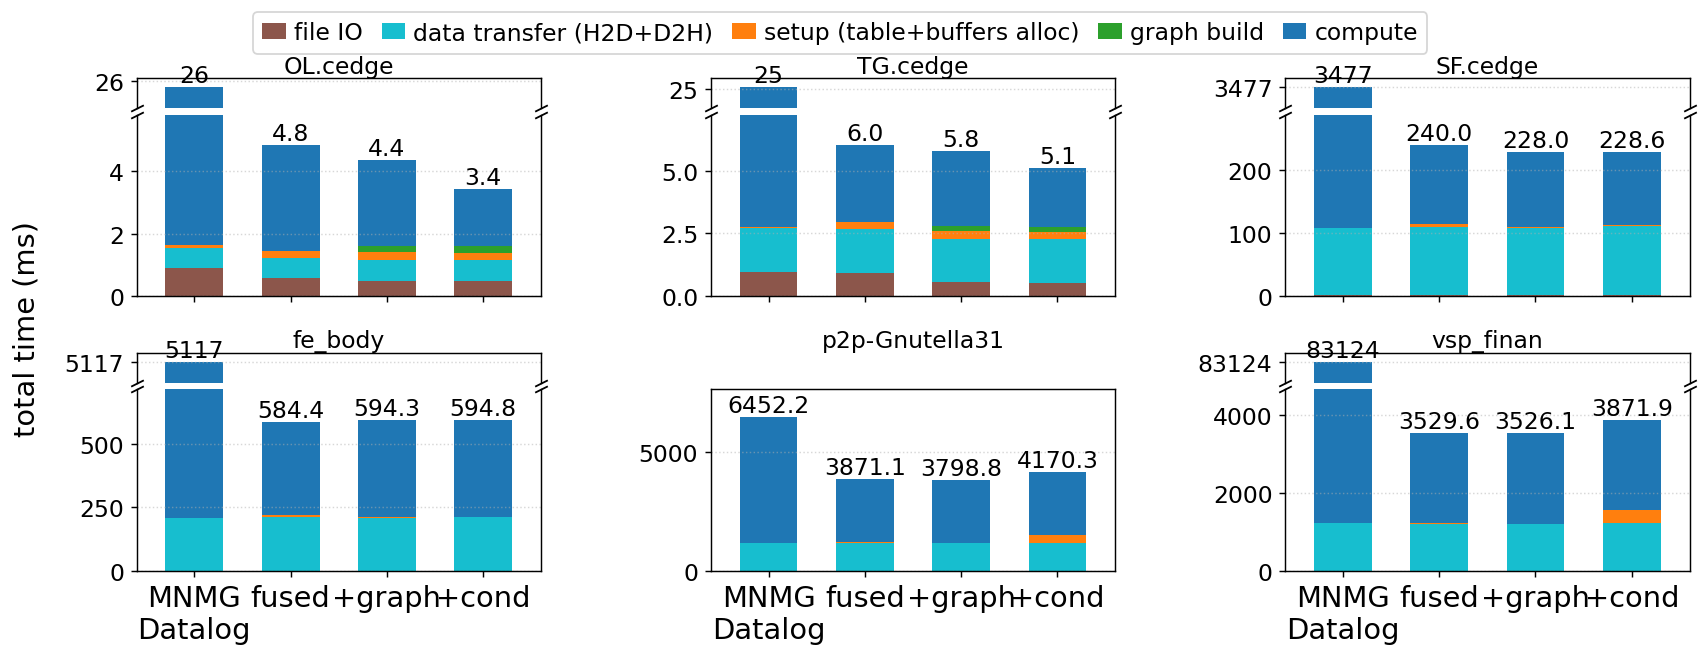
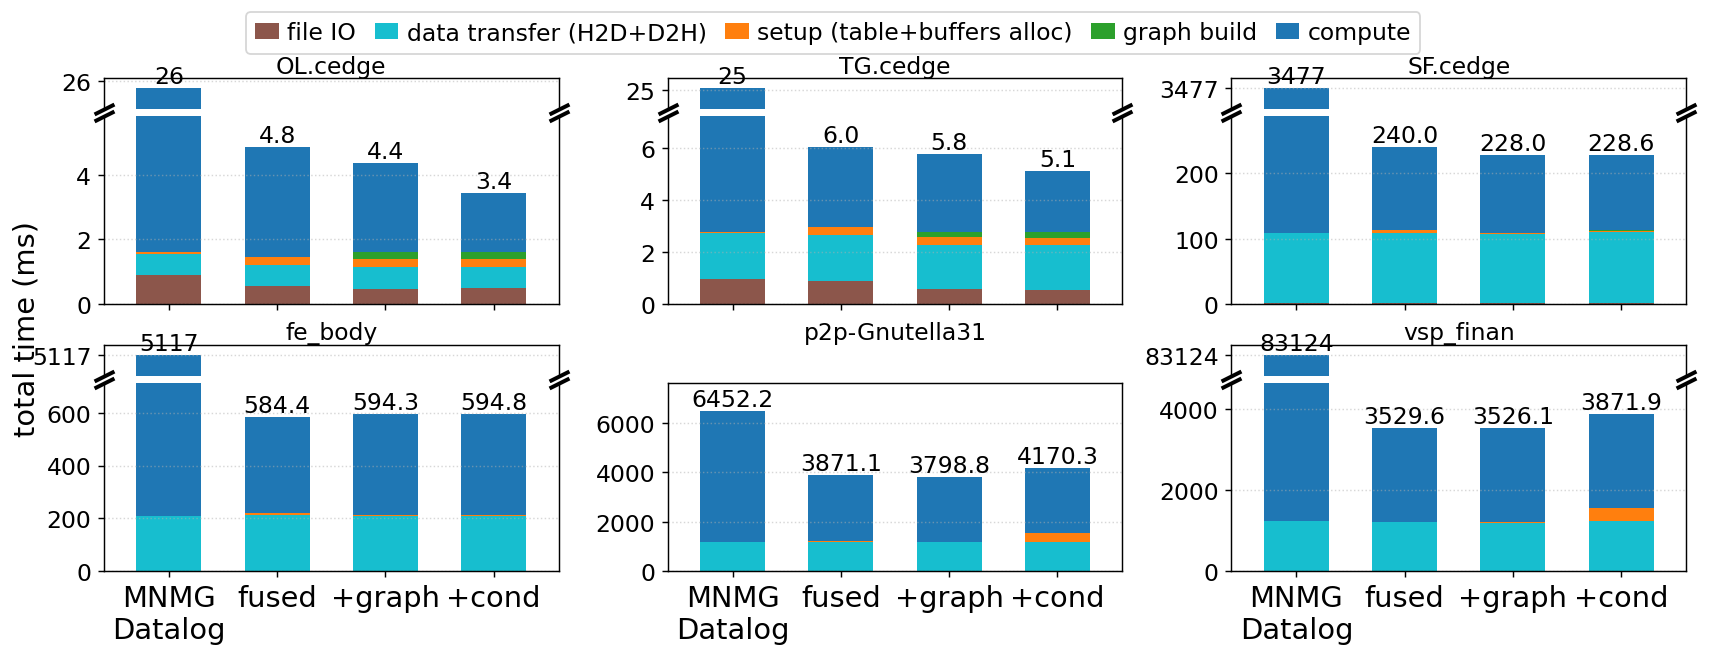
breakdown chart: tighter plot/y-label spacing, bolder axis-break marks

Changed region(s): [[0.031, 0.0304, 0.993, 0.9741], [0.1552, 0.0913, 0.2482, 0.1218], [0.4965, 0.0913, 0.5585, 0.1218]]

diff --git a/tc_benchmark/tests/plot_results.py b/tc_benchmark/tests/plot_results.py
@@ -180,8 +180,8 @@ def plot_breakdown(datasets, rows, outpath, versions):
     fig = plt.figure(figsize=(4.4 * dcol, 2.4 * drow))
     # Tight left margin (just enough for the y-label + tick numbers) so there is no
     # left whitespace, and a top strip for the legend.
-    outer = fig.add_gridspec(drow, dcol, hspace=0.26, wspace=0.42,
-                             left=0.09, right=0.995, top=0.90, bottom=0.11)
+    outer = fig.add_gridspec(drow, dcol, hspace=0.18, wspace=0.24,
+                             left=0.075, right=0.997, top=0.90, bottom=0.11)
 
     legend_handles = None
     for idx, d in enumerate(datasets):
@@ -228,8 +228,8 @@ def plot_breakdown(datasets, rows, outpath, versions):
             bot.spines["top"].set_visible(False)
             top.tick_params(labelbottom=False, bottom=False)
             top.set_yticks([round(overall)])
-            dxy = dict(marker=[(-1, -0.5), (1, 0.5)], markersize=7,
-                       linestyle="none", color="k", mec="k", mew=1, clip_on=False)
+            dxy = dict(marker=[(-1, -0.5), (1, 0.5)], markersize=11,
+                       linestyle="none", color="k", mec="k", mew=2.2, clip_on=False)
             top.plot([0, 1], [0, 0], transform=top.transAxes, **dxy)
             bot.plot([0, 1], [1, 1], transform=bot.transAxes, **dxy)
             top.annotate(f"{overall:.0f}", (0, overall), ha="center", va="bottom",
@@ -255,7 +255,7 @@ def plot_breakdown(datasets, rows, outpath, versions):
             bot.set_xticklabels([])
 
     # shared y-axis label (larger), placed clear of the left tick numbers
-    fig.supylabel("total time (ms)", fontsize=AXFS, x=0.018)
+    fig.supylabel("total time (ms)", fontsize=AXFS, x=0.022)
     # single-line legend with compact color handles (like the compute figure)
     if legend_handles:
         fig.legend(*legend_handles, loc="lower center", ncol=len(PHASES),
